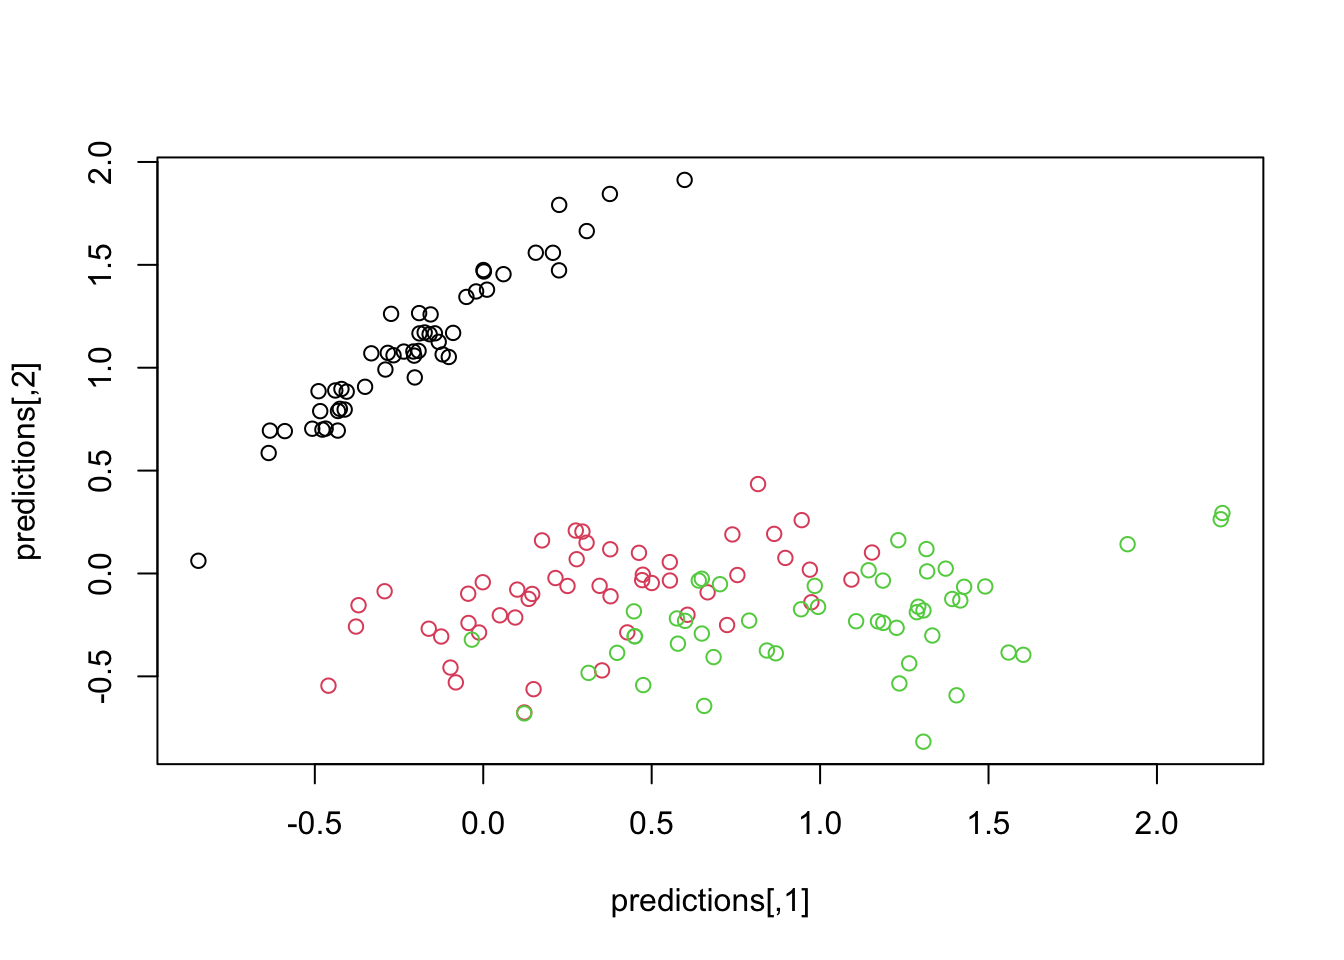
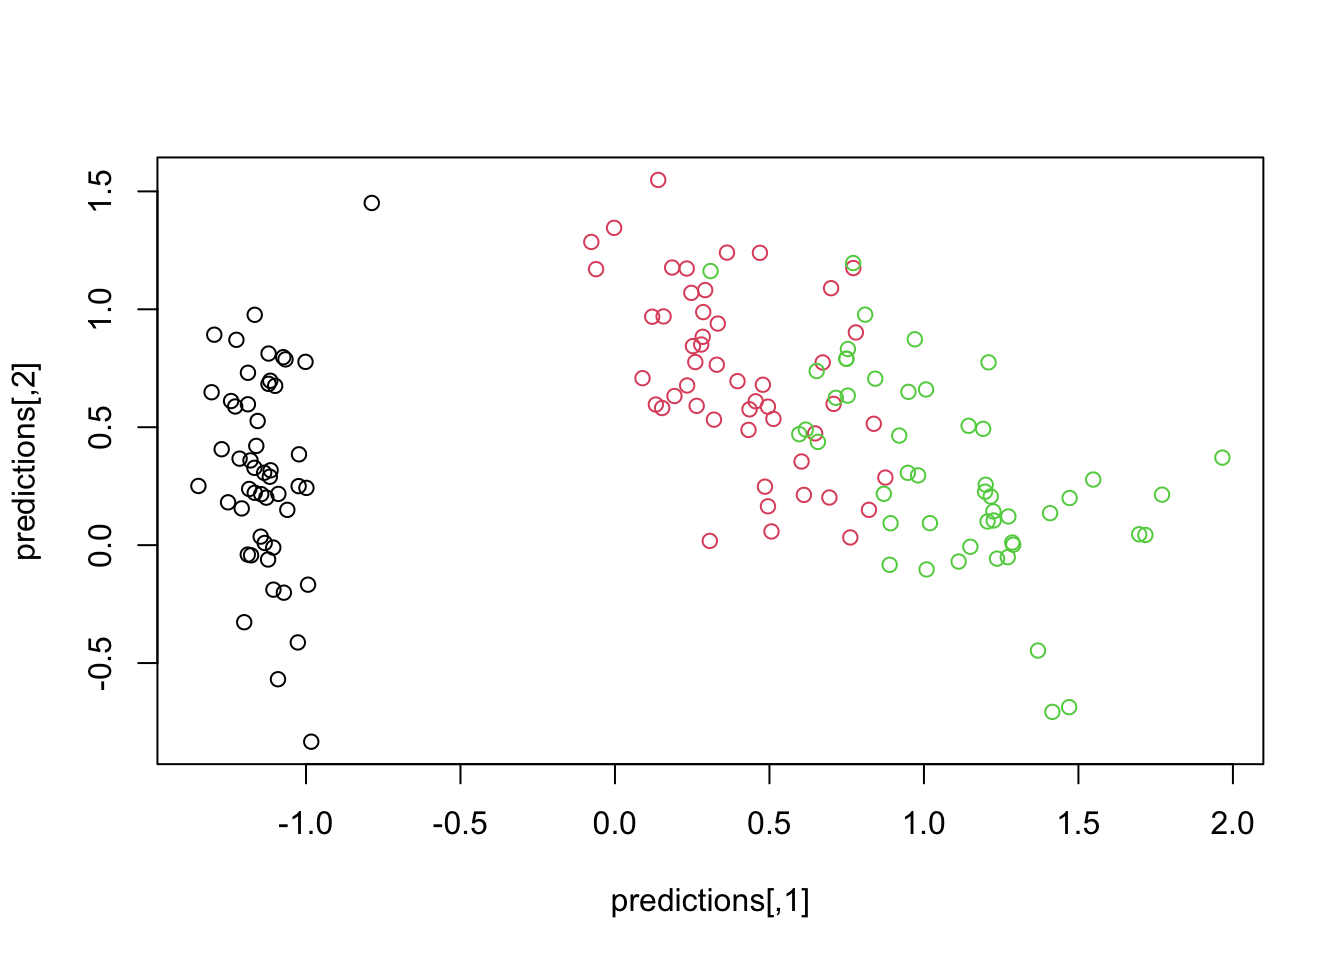
update VAE

diff --git a/docs/E1-Autoencoder.html b/docs/E1-Autoencoder.html
@@ -844,13 +844,12 @@ pre > code.sourceCode > span > a:first-child::before { text-decoration: underlin
 </div>
 <p>Sample from our Decoder:</p>
 <div class="cell">
-<div class="sourceCode cell-code" id="cb12"><pre class="sourceCode r code-with-copy"><code class="sourceCode r"><span id="cb12-1"><a href="#cb12-1" aria-hidden="true" tabindex="-1"></a>images <span class="ot">=</span> vae<span class="sc">$</span><span class="fu">decode</span>(<span class="fu">torch_rand</span>(<span class="fu">c</span>(20L, 30L))<span class="sc">$</span><span class="fu">to</span>( <span class="at">device =</span> device)) <span class="sc">$</span><span class="fu">cpu</span>()</span>
+<div class="sourceCode cell-code" id="cb12"><pre class="sourceCode r code-with-copy"><code class="sourceCode r"><span id="cb12-1"><a href="#cb12-1" aria-hidden="true" tabindex="-1"></a>images <span class="ot">=</span> vae<span class="sc">$</span><span class="fu">decode</span>(<span class="fu">torch_randn</span>(<span class="fu">c</span>(20L, 30L))<span class="sc">$</span><span class="fu">to</span>( <span class="at">device =</span> device)) <span class="sc">$</span><span class="fu">cpu</span>()</span>
 <span id="cb12-2"><a href="#cb12-2" aria-hidden="true" tabindex="-1"></a>images <span class="ot">=</span> <span class="fu">as_array</span>(images<span class="sc">$</span><span class="fu">cpu</span>())</span>
 <span id="cb12-3"><a href="#cb12-3" aria-hidden="true" tabindex="-1"></a>images <span class="ot">=</span> <span class="fu">aperm</span>(images, <span class="fu">c</span>(<span class="dv">1</span>, <span class="dv">3</span>, <span class="dv">4</span>, <span class="dv">2</span>))</span>
 <span id="cb12-4"><a href="#cb12-4" aria-hidden="true" tabindex="-1"></a>images[<span class="dv">1</span>,,,]  <span class="sc">%&gt;%</span></span>
-<span id="cb12-5"><a href="#cb12-5" aria-hidden="true" tabindex="-1"></a>  keras3<span class="sc">::</span><span class="fu">image_to_array</span>() <span class="sc">%&gt;%</span> </span>
-<span id="cb12-6"><a href="#cb12-6" aria-hidden="true" tabindex="-1"></a>  <span class="fu">as.raster</span>() <span class="sc">%&gt;%</span></span>
-<span id="cb12-7"><a href="#cb12-7" aria-hidden="true" tabindex="-1"></a>  <span class="fu">plot</span>()</span></code><button title="Copy to Clipboard" class="code-copy-button"><i class="bi"></i></button></pre></div>
+<span id="cb12-5"><a href="#cb12-5" aria-hidden="true" tabindex="-1"></a>  <span class="fu">as.raster</span>() <span class="sc">%&gt;%</span></span>
+<span id="cb12-6"><a href="#cb12-6" aria-hidden="true" tabindex="-1"></a>  <span class="fu">plot</span>()</span></code><button title="Copy to Clipboard" class="code-copy-button"><i class="bi"></i></button></pre></div>
 </div>
 <p>Example images (from the above trained VAE):</p>
 <div class="cell">
